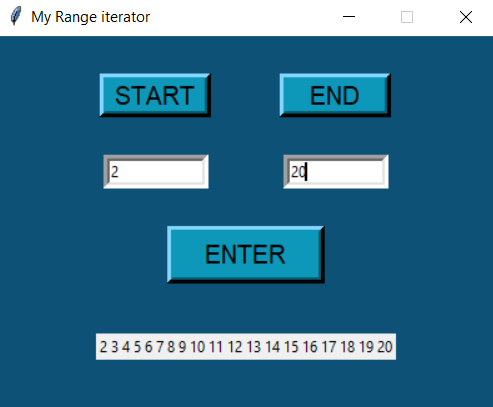
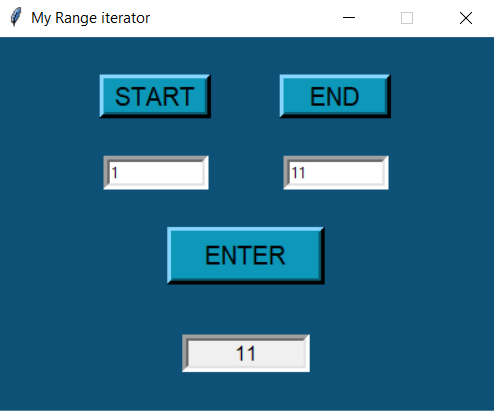
better label ^^

diff --git a/homework/homework_5/myrange.py b/homework/homework_5/myrange.py
@@ -83,15 +83,14 @@ class FrameOne(tk.Frame):
         self.i = -1
         self.label_show = tk.Label(self)
 
-
     def show(self):
-        self.label_show.destroy()
+        self.label_show.forget()
         self.myrang1 = MyRange(int(self.enter_from.get()), int(self.enter_to.get()))
         self.controller.app_data["range_elements"] = self.myrang1.list1
-        self.label_show = tk.Label(self, text=self.myrang1.list1[0], font='bold 12')
+        self.label_show = tk.Label(self, text=self.myrang1.list1[0], font='bold 12', width=10, borderwidth=5,
+                                   relief='sunken')
         self.label_show.grid(row=3, column=0, columnspan=2, pady=10)
         self.every1sec()
-
 
     def every1sec(self):
         self.i += 1
